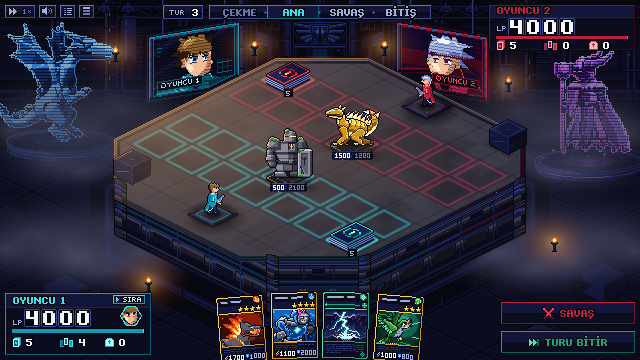
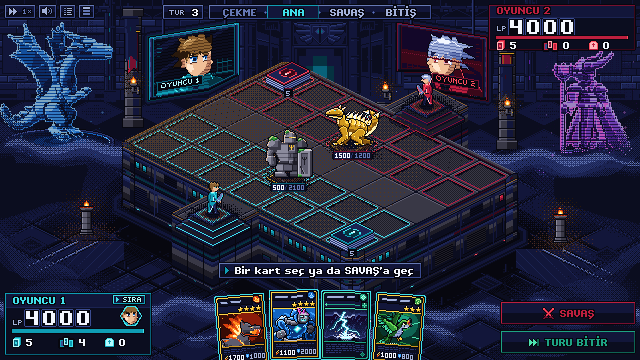
docs: oturum-okunurluk h4 (6 madde) + tum kapilar: tsc temiz, vitest yeni hata yok, palcheck PASS 4.30%, v1 17/17, a6v1 26/26 IDENTICAL; okunurluk-sonrasi.png guncel

diff --git a/docs/v3/oturum-okunurluk.md b/docs/v3/oturum-okunurluk.md
@@ -170,7 +170,65 @@ Bu andan sonra hiçbir kapı (tsc hariç, o da arka planda) ve ekran görüntüs
 - `view/board-nt/backhall.ts` (yeni) + `wall.ts`: 4 taş sütun (taş sıraları, aydınlık sol yüz), üstlerinde oyuncu
   renginde altın amblemli sallanan sancaklar (3 kare), salon zemininde iki boru + perçinli metal plaka.
 
+## Oturum 4 — hedef-gorunum-3 ile kalan farklar (sahip, 2026-11-02)
+Sahip: "sahne, kürsüler ve gömme karolar hedefe uyuyor"; 6 madde, her biri bir commit + push. `git pull`: güncel.
+
+### h4-1 — sahne sıkılaştı (`d077089`)
+- `layout-nt.ts`: pay 0.375 karo → **5 px** (dış karo çizgisinden sahne kenarına bir kenar genişliği); köşeler
+  uzak (288, 59) / sağ (522, 176) / yakın (352, 261) / sol (118, 144), pah 3–4 px. `PLATE_X0/X1/Y0/Y1` 122/518/62/258.
+  `FACE_H` 58 → 60 (test sınırı). Yakın-sağ köşe artık x 358 (lights.ts ayrımı ona göre).
+- Kürsüler sahne dışında kalınca: `DAIS_LANDINGS` — her düellocunun altında sahneyle aynı yükseklikte, sahneye bağlı
+  bir blok (`platform.ts` `paintLanding`: aynı duvar satırları, derz, oyuncu renginde lamba, taş üst, aydınlık kenar).
+- Testler: `tests/view/board-nt-layout.test.ts` (kürsü kendi bloğunda, blok sahneye değer; köşe x 358),
+  `tests/art/arena-nt-platform.test.ts` (örnek noktalar yeni geometriye).
+
+### h4-2 — sis geri geldi (`05c068c`)
+- `art/arena-nt/lights.ts` `paintFogBand` (320 × 48): uzun yassı lob zinciri, tepe `steel`/`night3`, gövde
+  `night2`/`night1`, sıralı dither ile incelir, uçları yumuşar (alfasız, palet). 3 varyant.
+- `view/board-nt/lights.ts`: 5 bant — 2'si hologram kaidelerinin yanında (sahnenin arkasında), 3'ü zeminde ve ekranın
+  alt kenarında, sahnenin ayağının önünde; zıt yönlerde 14–19 s periyotla yavaş kayıyor. Karoları örtmez (derinlik
+  sahnenin altında).
+
+### h4-3 — arka duvar siyahtan çıktı (`fc2159d`)
+- `wall-parts.ts` `brickWall`: 7 px'lik taş sıraları, ink harç, aydınlık üst/sol dudak, blok başına 3 loş ton, çatlaklar;
+  eski bölmeler koyu niş olarak kaldı.
+- `calm-remap.ts` `LIFT_LAYERS` ('wall'): duvar katmanı bir ton yukarı (ink → night0, night0 → night1).
+- `backhall.ts`: sancaklar iki tarafta da **kırmızı** (P1'de cyan şerit, P2'de altın); şamdanların duvarda küçük sıcak
+  halesi (`paintWallHalo`, dither, 3 titreme seviyesi). Salon parçaları ayrı 'hall' katman adıyla (lift onları etkilemez).
+
+### h4-4 — sahne çevresi zemini + hologram kaideleri (`694327c`)
+- `apron.ts` `panel`: düz koyu döşeme yerine iso **metal plakalar** — ink derz, aydınlık uzak dudak, köşe perçinleri;
+  her 3 plakadan birinde ızgara, bazılarında kabartmalı (tread) desen. Uzak salon zemini (`paintFloorTile`) de plaka + ızgara.
+- `holograms.ts`: kaide opak (0.55 → 1), halka opak, koni 0.28 → 0.5 → kaideler okunur.
+
+### h4-5 — mangallar ve meşaleler (`a5f866d`)
+- `lights.ts` `paintBrazierPost`: geniş demir kâse (kenar + kor), 11 px kalın kare taş direk (aydınlık sol / gölge sağ,
+  blok sıraları), iki basamaklı kaide. `paintTorchPool` (72 × 30): mangalın ayağı etrafında zeminde dither sıcak ışık
+  havuzu (`earth1`/`earth0`/`skin0`), alevle birlikte titrer. Şamdanlar: duvarda küçük hale (h4-3).
+
+### h4-6 — sahne ön yan duvarlarında ışıklı pencereler (`f60d2d6`)
+- `platform.ts`: havalandırmasız her panelin üst plakasında 4 × 5 px küçük pencere sırası (ink çerçeve, oyuncu renginde
+  cam, sol üst piksel en parlak) — P1 tarafında cyan, P2 tarafında kırmızı; kemer lambaları bir ton daha parlak.
+
+### h4-pal — palet kuralı (`2917a45`)
+- `LightLayer.ts` `ditherToPalette`: birim gölgesi (düşen + taban) ve ayak havuzu canvas'ta boyanıp **4×4 sıralı dither
+  ile palete** (ink / night0 / skin0 / earth1, alfa 255 ya da 0) çevriliyor; sıcak anahtar ışık da `earth1` dither.
+
+### Kapılar (son madde sonrası, `2917a45`)
+- `npm run typecheck`: **temiz**.
+- `npx vitest run`: 8 başarısız / 1448 geçti — oturum başındakiyle **aynı 8** (6 bilinen + hollow_ogre / mudgrasp_spirit
+  5 s zaman aşımı, yük altında). **Yeni hata yok**; arena testleri (güncellenen ikisi dahil) geçiyor.
+- `node tools/palcheck.mjs shots/ok/h4-final.png`: **PASS** — off **4.30 %** (önce 57.99 %), white 0.88 %, bands 0.
+- `node tools/filmdiff.mjs --set v1 --base shots/v3/a3/baseline/v1films --jobs 1`: **17/17 IDENTICAL** (333 s; önceki
+  turdaki `spBoltAce` yakalama hatası `--jobs 1` ile yok).
+- `node tools/filmdiff.mjs --set a6v1 --base shots/v3/a56/baseline/a6v1films --jobs 1`: **26/26 IDENTICAL** (458 s).
+  → v1 görünümü piksel piksel aynı.
+- `docs/v3/ref/okunurluk-sonrasi.png` = `shots/ok/h4-final.png` (`?dev=duel&s=a6Hover&look=v3`, 640 × 360).
+- Not: kapılar sırayla çalıştırıldı (`shots/ok/finalgates.cmd`); paralel çalışınca makine yükünden yakalama zaman aşımı
+  oluyor.
+
 ### Açık konular
+- Görüntüleyicim bu oturumda resim göstermiyor; görsel karşılaştırmayı sahip yapıyor.
 - Kapılar (vitest, palcheck, filmdiff v1/a6v1) h3 adımlarında çalıştırılmadı (sahip kararı); Claude birleştirmeden
   önce çalıştırmalı. `tests/art/arena-nt-platform.test.ts` op(213, 232)/op(213, 214)/op(320, 270) örnek noktaları eski
   sekizgene göre — yeni şekle göre güncellenmesi gerekebilir.
